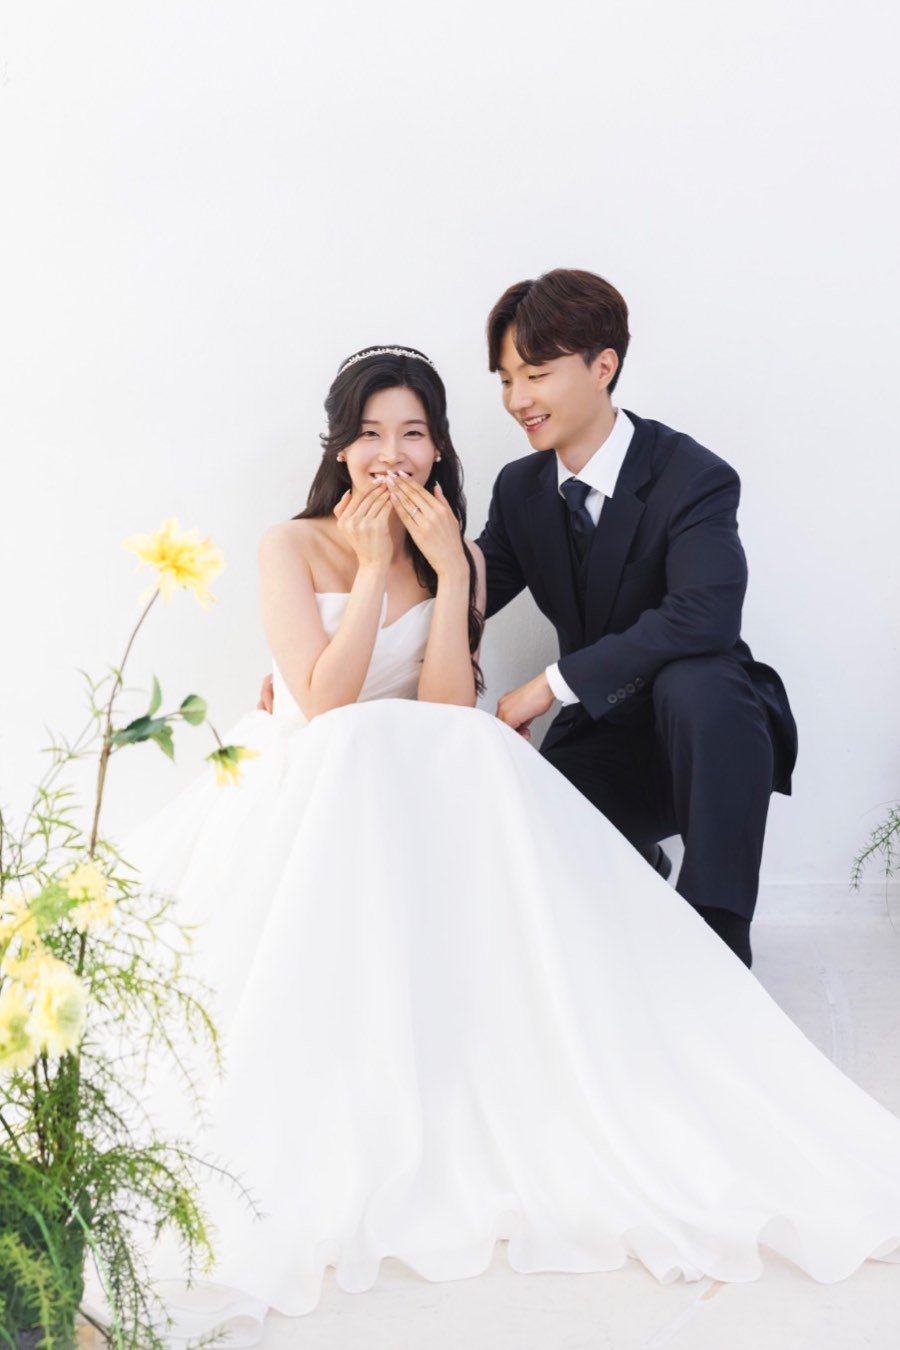
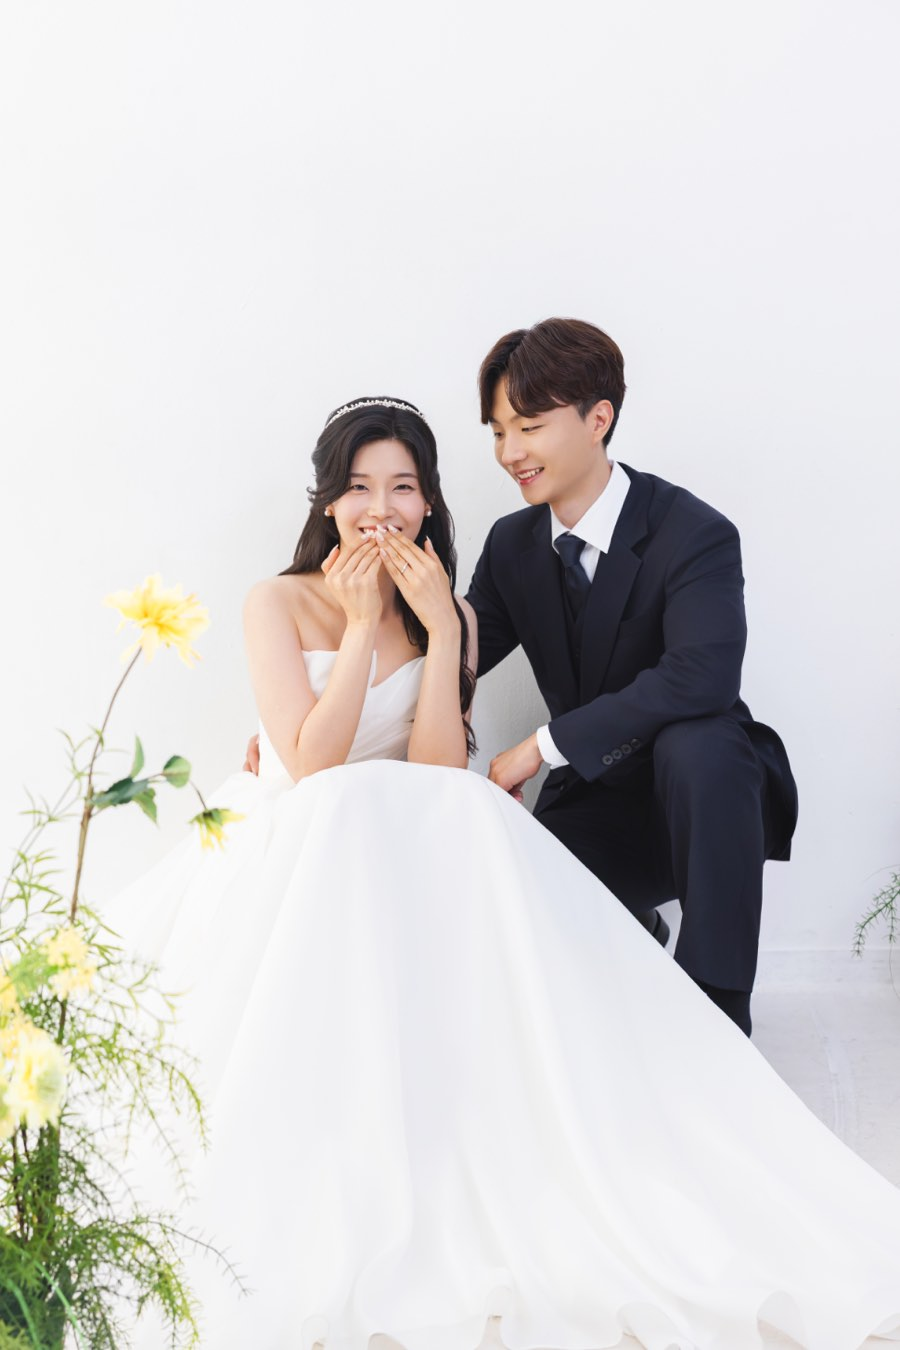
12번 사진 교체 + 인물 가운데 정렬
같은 옐로 플라워 두 사람 컷의 새 보정본입니다. 900x1350 으로 잘라
나머지와 같은 2:3 (0.66667) 에 맞췄습니다.

넘겨받은 원본(1058x1588)이 이미 2:3 이라 가로 여유가 0 이어서
to_portrait 로는 좌우를 옮길 수 없었습니다. 14번 때와 같은 방식으로
왼쪽 87px 을 덜어낸 파일을 imgs/R_옐로플라워두사람.png 로 만들어
원본 자리에 넣었습니다 (build_assets.py 에 이유를 주석으로 남김).

덜어낼 양은 인물 중심이 정확히 가운데 오는 값으로 계산했습니다:
  0px  -> 인물 중심 54.1%
  45px -> 52.0%
  87px -> 50.0%  (채택)
비율을 다시 맞추면서 위쪽 빈 벽도 40px 줄어 답답함이 덜합니다.

파일명이 그대로라 캐시 버전을 ?v=17 -> ?v=18 로 올렸습니다.

확인: 19장 비율 전부 0.66667(+가로 1장), 썸네일<->원본 19쌍 픽셀 대조
전부 일치, 캐시 없는 프로필에서 로드 실패 0건 / 버전 누락 0건,
12번 탭 -> g12.jpg "12 / 19" (900x1350).

Assisted-by: Claude Code (Opus 5)

diff --git a/index.html b/index.html
@@ -10,7 +10,7 @@
 <meta property="og:title" content="이수영 ♥ 이정은 결혼합니다">
 <meta property="og:description" content="2026년 12월 12일 토요일 오후 4시, 세인트메리엘 1층 메리엘홀">
 <meta property="og:url" content="https://suyoung-lee.github.io/wedding/">
-<meta property="og:image" content="https://suyoung-lee.github.io/wedding/assets/og.jpg?v=17">
+<meta property="og:image" content="https://suyoung-lee.github.io/wedding/assets/og.jpg?v=18">
 <meta name="description" content="2026년 12월 12일 토요일 오후 4시, 세인트메리엘 1층 메리엘홀">
 <meta name="theme-color" content="#fbfaf7">
 
@@ -283,7 +283,7 @@
   <!-- ══════════ 표지 ══════════ -->
   <header class="cover">
     <div class="photo noSave">
-      <img src="assets/cover.jpg?v=17" alt="신랑 이수영, 신부 이정은" draggable="false">
+      <img src="assets/cover.jpg?v=18" alt="신랑 이수영, 신부 이정은" draggable="false">
     </div>
     <div class="fade"></div>
     <div class="frame"></div>
@@ -354,25 +354,25 @@
   <section>
     <p class="label">Gallery</p>
     <div class="grid collapsed noSave" id="grid">
-      <button class="ph wide" type="button" data-full="assets/g01.jpg?v=17" aria-label="웨딩 사진 1번, 크게 보기"><img src="assets/wide.jpg?v=17" alt="" loading="lazy"></button>
-      <button class="ph" type="button" data-full="assets/g02.jpg?v=17" aria-label="웨딩 사진 2번, 크게 보기"><img src="assets/t02.jpg?v=17" alt="" loading="lazy"></button>
-      <button class="ph" type="button" data-full="assets/g03.jpg?v=17" aria-label="웨딩 사진 3번, 크게 보기"><img src="assets/t03.jpg?v=17" alt="" loading="lazy"></button>
-      <button class="ph" type="button" data-full="assets/g04.jpg?v=17" aria-label="웨딩 사진 4번, 크게 보기"><img src="assets/t04.jpg?v=17" alt="" loading="lazy"></button>
-      <button class="ph" type="button" data-full="assets/g05.jpg?v=17" aria-label="웨딩 사진 5번, 크게 보기"><img src="assets/t05.jpg?v=17" alt="" loading="lazy"></button>
-      <button class="ph" type="button" data-full="assets/g06.jpg?v=17" aria-label="웨딩 사진 6번, 크게 보기"><img src="assets/t06.jpg?v=17" alt="" loading="lazy"></button>
-      <button class="ph" type="button" data-full="assets/g07.jpg?v=17" aria-label="웨딩 사진 7번, 크게 보기"><img src="assets/t07.jpg?v=17" alt="" loading="lazy"></button>
-      <button class="ph" type="button" data-full="assets/g08.jpg?v=17" aria-label="웨딩 사진 8번, 크게 보기"><img src="assets/t08.jpg?v=17" alt="" loading="lazy"></button>
-      <button class="ph" type="button" data-full="assets/g09.jpg?v=17" aria-label="웨딩 사진 9번, 크게 보기"><img src="assets/t09.jpg?v=17" alt="" loading="lazy"></button>
-      <button class="ph" type="button" data-full="assets/g10.jpg?v=17" aria-label="웨딩 사진 10번, 크게 보기"><img src="assets/t10.jpg?v=17" alt="" loading="lazy"></button>
-      <button class="ph" type="button" data-full="assets/g11.jpg?v=17" aria-label="웨딩 사진 11번, 크게 보기"><img src="assets/t11.jpg?v=17" alt="" loading="lazy"></button>
-      <button class="ph" type="button" data-full="assets/g12.jpg?v=17" aria-label="웨딩 사진 12번, 크게 보기"><img src="assets/t12.jpg?v=17" alt="" loading="lazy"></button>
-      <button class="ph" type="button" data-full="assets/g13.jpg?v=17" aria-label="웨딩 사진 13번, 크게 보기"><img src="assets/t13.jpg?v=17" alt="" loading="lazy"></button>
-      <button class="ph" type="button" data-full="assets/g14.jpg?v=17" aria-label="웨딩 사진 14번, 크게 보기"><img src="assets/t14.jpg?v=17" alt="" loading="lazy"></button>
-      <button class="ph" type="button" data-full="assets/g15.jpg?v=17" aria-label="웨딩 사진 15번, 크게 보기"><img src="assets/t15.jpg?v=17" alt="" loading="lazy"></button>
-      <button class="ph" type="button" data-full="assets/g16.jpg?v=17" aria-label="웨딩 사진 16번, 크게 보기"><img src="assets/t16.jpg?v=17" alt="" loading="lazy"></button>
-      <button class="ph" type="button" data-full="assets/g17.jpg?v=17" aria-label="웨딩 사진 17번, 크게 보기"><img src="assets/t17.jpg?v=17" alt="" loading="lazy"></button>
-      <button class="ph" type="button" data-full="assets/g18.jpg?v=17" aria-label="웨딩 사진 18번, 크게 보기"><img src="assets/t18.jpg?v=17" alt="" loading="lazy"></button>
-      <button class="ph" type="button" data-full="assets/g19.jpg?v=17" aria-label="웨딩 사진 19번, 크게 보기"><img src="assets/t19.jpg?v=17" alt="" loading="lazy"></button>
+      <button class="ph wide" type="button" data-full="assets/g01.jpg?v=18" aria-label="웨딩 사진 1번, 크게 보기"><img src="assets/wide.jpg?v=18" alt="" loading="lazy"></button>
+      <button class="ph" type="button" data-full="assets/g02.jpg?v=18" aria-label="웨딩 사진 2번, 크게 보기"><img src="assets/t02.jpg?v=18" alt="" loading="lazy"></button>
+      <button class="ph" type="button" data-full="assets/g03.jpg?v=18" aria-label="웨딩 사진 3번, 크게 보기"><img src="assets/t03.jpg?v=18" alt="" loading="lazy"></button>
+      <button class="ph" type="button" data-full="assets/g04.jpg?v=18" aria-label="웨딩 사진 4번, 크게 보기"><img src="assets/t04.jpg?v=18" alt="" loading="lazy"></button>
+      <button class="ph" type="button" data-full="assets/g05.jpg?v=18" aria-label="웨딩 사진 5번, 크게 보기"><img src="assets/t05.jpg?v=18" alt="" loading="lazy"></button>
+      <button class="ph" type="button" data-full="assets/g06.jpg?v=18" aria-label="웨딩 사진 6번, 크게 보기"><img src="assets/t06.jpg?v=18" alt="" loading="lazy"></button>
+      <button class="ph" type="button" data-full="assets/g07.jpg?v=18" aria-label="웨딩 사진 7번, 크게 보기"><img src="assets/t07.jpg?v=18" alt="" loading="lazy"></button>
+      <button class="ph" type="button" data-full="assets/g08.jpg?v=18" aria-label="웨딩 사진 8번, 크게 보기"><img src="assets/t08.jpg?v=18" alt="" loading="lazy"></button>
+      <button class="ph" type="button" data-full="assets/g09.jpg?v=18" aria-label="웨딩 사진 9번, 크게 보기"><img src="assets/t09.jpg?v=18" alt="" loading="lazy"></button>
+      <button class="ph" type="button" data-full="assets/g10.jpg?v=18" aria-label="웨딩 사진 10번, 크게 보기"><img src="assets/t10.jpg?v=18" alt="" loading="lazy"></button>
+      <button class="ph" type="button" data-full="assets/g11.jpg?v=18" aria-label="웨딩 사진 11번, 크게 보기"><img src="assets/t11.jpg?v=18" alt="" loading="lazy"></button>
+      <button class="ph" type="button" data-full="assets/g12.jpg?v=18" aria-label="웨딩 사진 12번, 크게 보기"><img src="assets/t12.jpg?v=18" alt="" loading="lazy"></button>
+      <button class="ph" type="button" data-full="assets/g13.jpg?v=18" aria-label="웨딩 사진 13번, 크게 보기"><img src="assets/t13.jpg?v=18" alt="" loading="lazy"></button>
+      <button class="ph" type="button" data-full="assets/g14.jpg?v=18" aria-label="웨딩 사진 14번, 크게 보기"><img src="assets/t14.jpg?v=18" alt="" loading="lazy"></button>
+      <button class="ph" type="button" data-full="assets/g15.jpg?v=18" aria-label="웨딩 사진 15번, 크게 보기"><img src="assets/t15.jpg?v=18" alt="" loading="lazy"></button>
+      <button class="ph" type="button" data-full="assets/g16.jpg?v=18" aria-label="웨딩 사진 16번, 크게 보기"><img src="assets/t16.jpg?v=18" alt="" loading="lazy"></button>
+      <button class="ph" type="button" data-full="assets/g17.jpg?v=18" aria-label="웨딩 사진 17번, 크게 보기"><img src="assets/t17.jpg?v=18" alt="" loading="lazy"></button>
+      <button class="ph" type="button" data-full="assets/g18.jpg?v=18" aria-label="웨딩 사진 18번, 크게 보기"><img src="assets/t18.jpg?v=18" alt="" loading="lazy"></button>
+      <button class="ph" type="button" data-full="assets/g19.jpg?v=18" aria-label="웨딩 사진 19번, 크게 보기"><img src="assets/t19.jpg?v=18" alt="" loading="lazy"></button>
     </div>
     <button class="more" type="button" id="more">사진 더보기<span class="chev" aria-hidden="true"></span></button>
   </section>
@@ -385,8 +385,8 @@
     <h2>세인트메리엘</h2>
     <p class="sub">1층 메리엘홀</p>
 
-    <a class="mapWrap noSave" href="assets/map-full.png?v=17" target="_blank" rel="noopener">
-      <img src="assets/map.png?v=17" alt="세인트메리엘 약도" loading="lazy" draggable="false">
+    <a class="mapWrap noSave" href="assets/map-full.png?v=18" target="_blank" rel="noopener">
+      <img src="assets/map.png?v=18" alt="세인트메리엘 약도" loading="lazy" draggable="false">
     </a>
     <p class="mapHint">약도를 누르면 크게 볼 수 있습니다</p>
 

diff --git a/build_assets.py b/build_assets.py
@@ -18,8 +18,8 @@ OUT = "assets"
 # index.html 의 이미지 URL 뒤 ?v=N 캐시 버전. 파일명을 그대로 두고 사진 내용만
 # 바꾸면 이미 청첩장을 열어본 브라우저가 캐시된 옛 사진을 계속 보여줍니다
 # (썸네일만 바뀌고 뷰어는 옛 사진이 뜨는 식). 사진을 갈아끼울 때마다 올리세요.
-#   sed -i '' 's/?v=[0-9]*/?v=18/g' index.html
-ASSET_V = 17
+#   sed -i '' 's/?v=[0-9]*/?v=19/g' index.html
+ASSET_V = 18
 os.makedirs(OUT, exist_ok=True)
 
 A = lambda n: os.path.join(SRC, f"KakaoTalk_20260909_203020487{n}.png")
@@ -48,7 +48,11 @@ ORDER = [
     (B(""),    "아이보리 수트 - 신부"),
     (os.path.join(SRC, "KakaoTalk_20260909_213739064.png"), "화이트 스튜디오 - 레드 부케"),
     # 옐로 플라워
-    (N("D_옐로플라워두사람"), "옐로 플라워 - 두 사람"),
+    # ※ R_옐로플라워두사람.png 는 넘겨받은 원본(1058x1588)에서 왼쪽 87px 을
+    #    미리 덜어낸 파일입니다. 원본이 이미 2:3 이라 가로 여유가 0 이어서
+    #    to_portrait 로는 좌우를 못 옮깁니다. 인물을 가운데 두려고 그 손질을
+    #    파일에 박아 뒀습니다 (인물 중심 54.1% -> 50.0%).
+    (N("R_옐로플라워두사람"), "옐로 플라워 - 두 사람"),
     (N("P_옐로플라워신랑"), "옐로 플라워 - 신랑"),
     # 가든
     # ※ I_가든소파두사람.png 는 넘겨받은 원본(980x1496)에서 오른쪽 100px 을
@@ -83,7 +87,7 @@ FACE = [
     (0.491, 0.243),   #  9 아이보리 두 사람
     (0.479, 0.400),   # 10 아이보리 신부
     (0.750, 0.188),   # 11 레드 부케
-    (0.520, 0.319),   # 12 옐로 두 사람
+    (0.500, 0.355),   # 12 옐로 두 사람 (왼쪽 87px 덜어낸 원본 기준)
     (0.425, 0.169),   # 13 옐로 신랑
     (0.582, 0.177),   # 14 가든 두 사람 (오른쪽 100px 덜어낸 원본 기준)
     (0.504, 0.263),   # 15 가든 소파 신부 (두 사람 컷 사이에 끼움)
